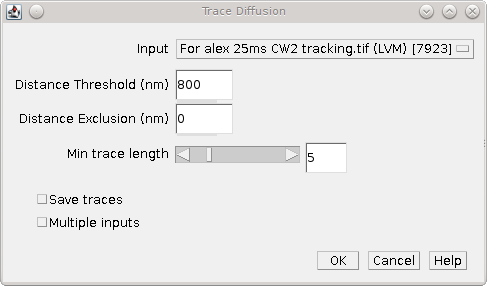
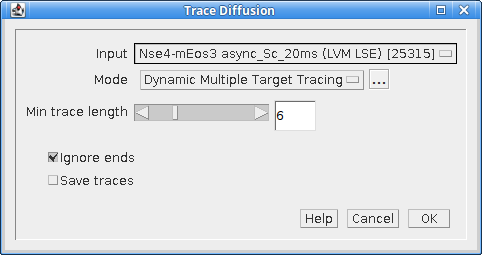
Added Dynamic MTT in Trace Molecules to the documentation.

Changed region(s): [[0.0, 0.0, 1.0, 1.0], [0.0622, 0.6588, 0.3112, 0.7961], [0.0934, 0.5765, 0.2801, 0.6588]]

diff --git a/docs/analysis_plugins.rst b/docs/analysis_plugins.rst
@@ -677,10 +677,40 @@ The ``Trace Diffusion`` plugin will trace molecules through consecutive frames a
 The plugin is similar to the ``Diffusion Rate Test`` plugin however instead of simulating particle diffusion the plugin will use an existing results set. This allows the analysis to be applied to results from fitting single-molecule images using the ``Peak Fit`` plugin.
 
 
+Trace Mode
+~~~~~~~~~~
+
+Tracing can be performed using different trace modes:
+
+- Nearest Neighbour
+- Dynamic Multiple Target Tracing (DMTT)
+
+Nearest Neighbour
+^^^^^^^^^^^^^^^^^
+
+Use a simple nearest neighbour tracing using consecutive frames. The distance threshold for the tracing algorithm can be specified: a pair of localisations within adjacent frames will be connected if they are within the distance threshold. In the event of multiple candidate connections the algorithm assigns the closest connection first. This is a greedy algorithm and may not achieve the maximum cardinality matching for the specified distance threshold.
+
+To remove the possibility for overlapping tracks the plugin allows the track to be excluded if a second localisation occurs within an exclusion threshold of the current track position. This ensures that the localisation assigned to the track is the only candidate within the exclusion distance and effectively removes traces of particles that could overlap with another moving particle. Setting the exclusion distance to less than the distance threshold disables this feature.
+
+Dynamic Multiple Target Tracing
+^^^^^^^^^^^^^^^^^^^^^^^^^^^^^^^
+
+Use dynamic multiple target tracing based on Sergé *et al* (2008). Details can be found in the paper's supplementary information appendix 2. This tracing uses a model to assign the probability that a localisation should join a current trajectory (or track). The matrix of all localisations paired with all current trajectories is considered and the maximum likelihood reconnection is selected. New trajectories are created as required and existing trajectories can expire if no localisations have been assigned to them for a set number of frames.
+
+The probability model consists of three parts: the probability for a match given the diffusion; the probability for a match given the intensity; and the probability the trajectory blinks or disappears.
+
+The probability for diffusion computes a probability based on the distance from the end of the trajectory to the localisation. This assumes a maximum diffusion coefficient for moving particles which sets an upper limit on the distance allowed. A moving particle may be slower than the maximum if it has become confined, for example a DNA binding protein bound to the DNA or a membrane protein that has formed a complex. The tracing thus maintains a local diffusion coefficient for each track based on the jumps observed for the previous *N* frames. The probability is computed as a weighted average of the probability based on maximum (unconfined) diffusion and the probability using the local diffusion rate.
+
+The probability for intensity computes the probability that the localisation intensity is from the distribution of intensity values in the trajectory. This is the non-blinking, or on, probability for intensity. When the trajectory is short the probability function uses the population mean and standard deviation. Otherwise it uses the mean and standard deviation from the previous *N* frames where the trajectory was on. A second component is the probability the trajectory will blink (i.e. turn off). The final probability is the weighted combination of the probability for non-blinking (on) and blinking (off). Note that the intensity statistics are only valid if the trajectory was on for the entire frame. Turning off during the frame (partial blink) will skew the statistics. Thus frames are counted as on for new localisations if the probability for non-blinking is higher than the blinking probability. The result is the previous *N* on frames for local statistics may span more time than *N* frames.
+
+The probability for disappearance is the probability that an off trajectory will reappear. This is modelled using an exponential decay controlled by a decay factor. A higher factor will increase the probability a trajectory reappears after a set amount of time.
+
+The intensity model is disabled if all localisations have the same intensity (i.e. are only (x,y) positions) and can also be optionally disabled. The result is tracing based on diffusion and blinking.
+
+Setting a disappearance threshold to 0 frames will configure tracing using diffusion and intensity with no allowed blinking. This should create tracks similar to the ``Nearest Neighbour`` trace mode but will use a maximum probability connection test and not the closest first assignment algorithm.
+
 Analysis
 ~~~~~~~~
-
-The plugin runs a tracing algorithm on the results to find localisations that occur in consecutive frames. Details of the tracing algorithm can be found in section :numref:`{number}: {name} <analysis_plugins:Trace Molecules>`. The distance threshold for the tracing algorithm can be specified but the time threshold is set to 1 frame, i.e. only continuous tracks will be extracted. Thus a pair of localisations within adjacent frames will be connected if they are within the distance threshold. In addition the plugin allows the track to be excluded if a second localisation occurs within an exclusion threshold of the first localisation. This effectively removes traces of particles that could overlap with another moving particle.
 
 Once the tracks have been identified the tracks are filtered using a length criteria and shorter tracks discarded. Optionally the tracks can be truncated to the minimum length which ensures even sampling of particles with different track lengths. The plugin computes the mean-squared distance of each point from the origin. Optionally the plugin computes the mean-squared distance of each point from every other point in the track. These internal distances increase the number of points in the analysis. Therefore if the track is not truncated the number of internal distances at a given time separation is proportional to the track length. To prevent bias in the data towards the longer tracks the average distance for each time separation is computed per track and these are used in the population statistics. Thus each track contributes only once to the mean-displacement for a set time separation.
 
@@ -901,11 +931,13 @@ The plugin has the following parameters:
    * - Input
      - Specify the input results set.
 
-   * - Distance threshold
-     - The distance threshold for tracing.
+   * - Mode
+     - Specify the trace mode.
 
-   * - Distance exclusion
-     - The exclusion distance. If a particle is within the distance threshold but a second particle is within the exclusion distance then the trace is discarded (due to overlapping tracks).
+       - ``Nearest Neighbour``
+       - ``Dynamic Multiple Target Tracing``
+
+       The parameters for each are configured using the ``...`` button. See descriptions below. 
 
    * - Min trace length
      - The minimum length for a track (in time frames).
@@ -919,6 +951,56 @@ The plugin has the following parameters:
 
    * - Save traces
      - Save the traces to file in the ``Peak Fit`` results format.
+
+Nearest Neighbour Parameters
+^^^^^^^^^^^^^^^^^^^^^^^^^^^^
+
+.. list-table::
+   :widths: 20 80
+   :header-rows: 1
+
+   * - Parameter
+     - Description
+
+   * - Distance threshold
+     - The distance threshold for tracing.
+
+   * - Distance exclusion
+     - The exclusion distance. If a particle is within the distance threshold but a second particle is within the exclusion distance then the trace is discarded (due to overlapping tracks).
+
+Dynamic Multiple Target Tracing Parameters
+^^^^^^^^^^^^^^^^^^^^^^^^^^^^^^^^^^^^^^^^^^
+
+.. list-table::
+   :widths: 20 80
+   :header-rows: 1
+
+   * - Parameter
+     - Description
+
+   * - Diffusion coefficient
+     - The expected maximum diffusion coefficient for moving particles. Used to set an upper limit on the radius allowed to reconnect trajectories and localisations.
+
+   * - Temporal window
+     - The window over which to build local statistics
+
+   * - Local diffusion weight
+     - The weighting for the probability created using the local diffusion coefficient; the remaining probability uses the maximum diffusion coefficient.
+
+   * - On intensity weight
+     - The weighting for the probability for non-blinking intensity; the remaining probability uses the probability for blinking intensity.
+
+   * - Disappearance decay factor
+     - Controls the expected duration over which an off trajectory may reappear. Higher values will increase probability the molecule may reappear after *t* frames.
+
+   * - Disappearance threshold
+     - The threshold used to deactivate a trajectory. Any trajectory that has been in the off (dark) state longer than this threshold is removed and cannot connect to new localisations.
+
+   * - Disable intensity model
+     - Set to **true** to disable the intensity model. Can be used when the intensity of particles in a track is highly variable and intensity cannot be used to distinguish the track.
+
+   * - Defaults
+     - Use this button to reset the values to the defaults as used in the original source paper (Sergé *et al*, 2008).
 
 
 When all the datasets have been traced the plugin presents a second dialog to configure the diffusion analysis. The following parameters can be configured:
@@ -1084,11 +1166,8 @@ The plugin shows a summary table of the analysis results. This allows the plugin
    * - Exposure time
      - The dataset exposure time per frame.
 
-   * - D-threshold
-     - The distance threshold.
-
-   * - Ex-threshold
-     - The exclusion distance.
+   * - Trace settings
+     - The settings used for the trace algorithm.
 
    * - Min-length
      - The minimum track length that was analysed.

diff --git a/docs/references.rst b/docs/references.rst
@@ -123,6 +123,10 @@ Sengupta P, Jovanovic-Talisman T, Skoko D, Renz M, Veatch SL & Lippincott-Schwar
 Probing protein heterogeneity in the plasma membrane using PALM and pair correlation analysis.
 *Nature Methods* 8: 969-975.
 
+Sergé A, Bertaux N, Rigneault H & Marguet D (2008)
+Dynamic multiple-target tracing to probe spatiotemporal cartography of cell membranes.
+*Nature Methods* 5: 687-694.
+
 Snyder DL, Helstrom CW, Lanterman AD, Faisal M & White RL (1995)
 Compensation for readout noise in CCD images.
 *Journal of the Optical Society of America* 12: 272-283.
